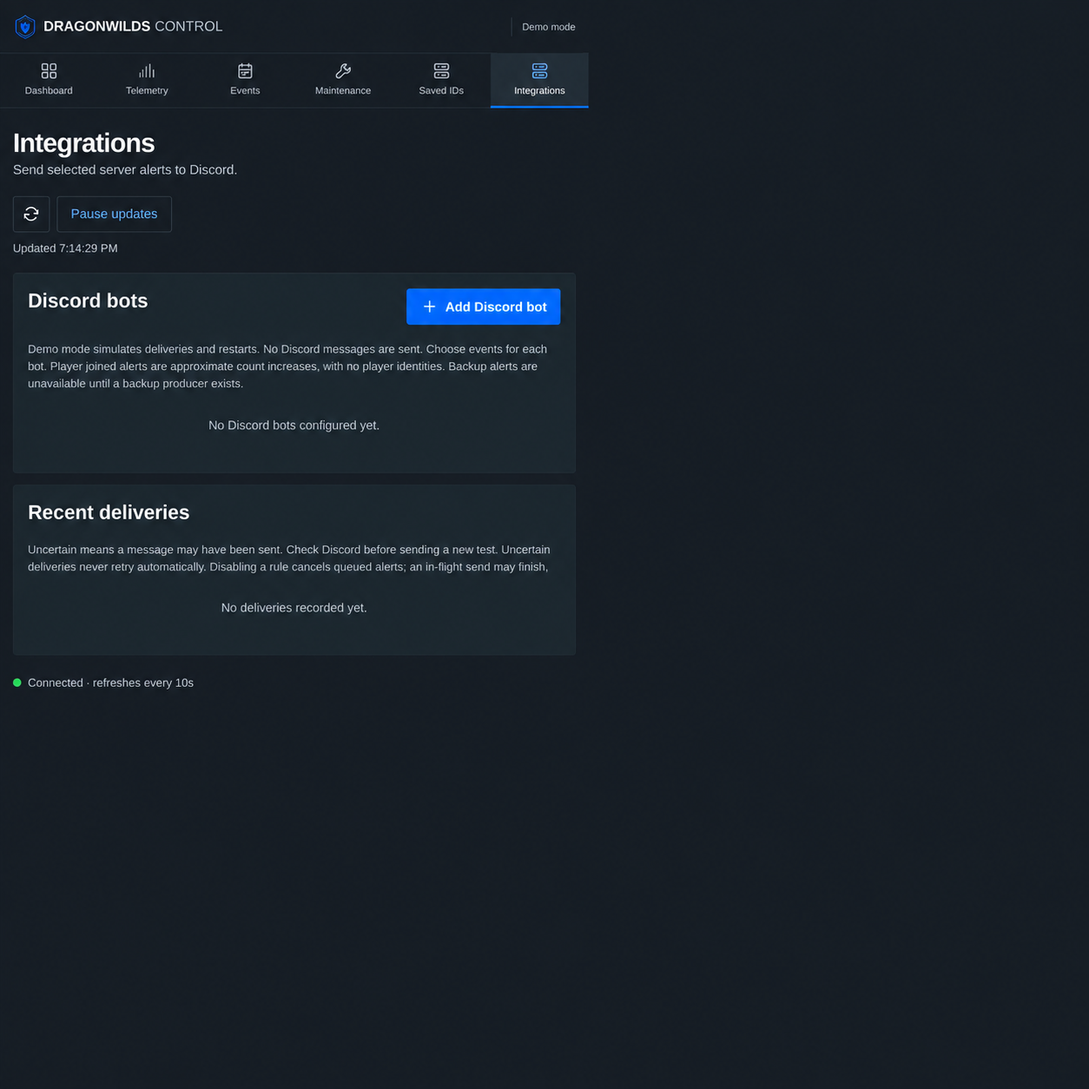
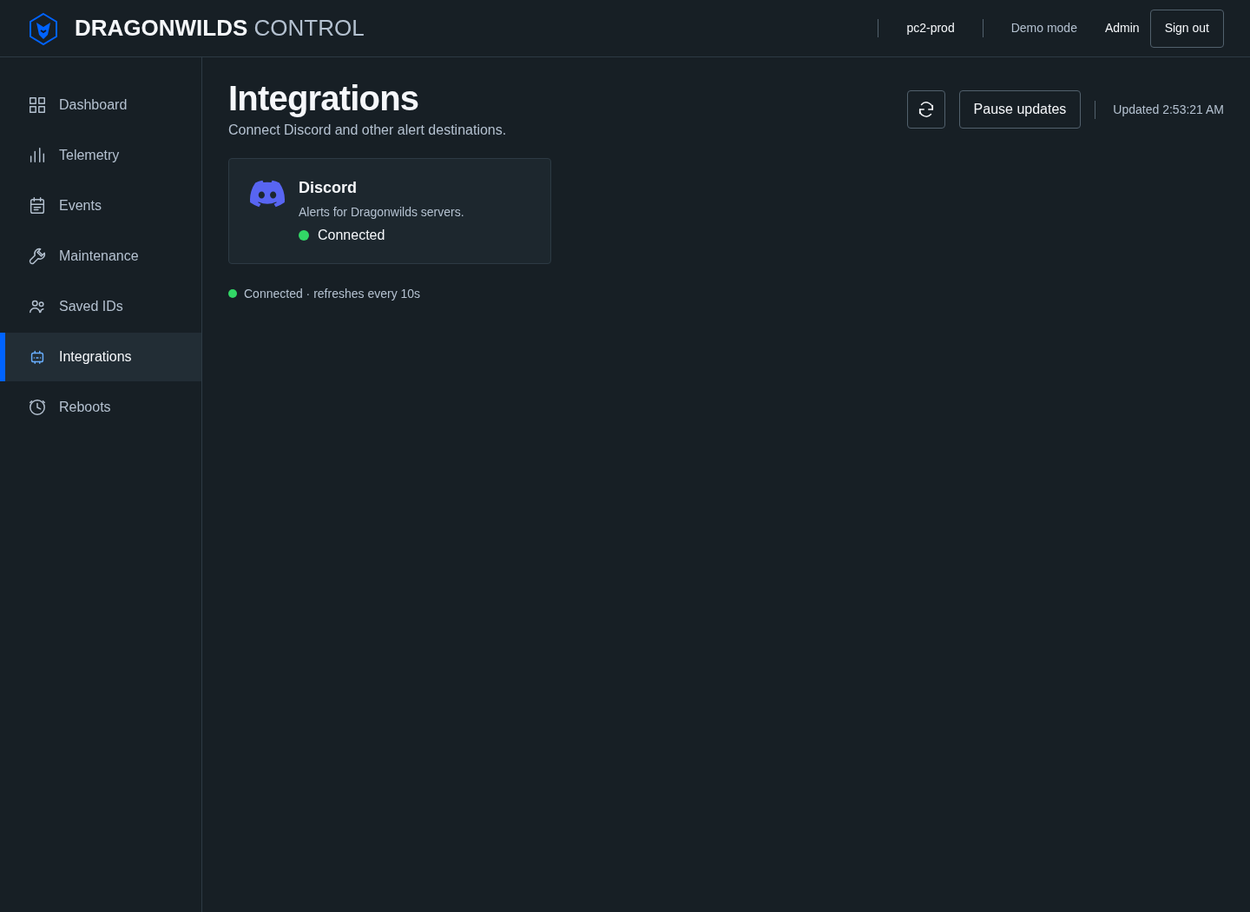
feat(web): split integrations hub from Discord alerts (#35)
* feat(web): add integrations hub and Discord alerts page

Parse #integrations versus #integrations/discord so Integrations stays
the nav item while Discord alerts get a real page, back link, and
connection status derived from bot config and latest deliveries.

* fix(web): keep Discord card text on the console palette

Sort recent messages by time even when the client list is unordered.

* docs(web): capture connected Integrations screenshots

Show the hub with a Connected Discord card and the Discord page with recent messages for PC2-US-EAST-01 and PC2-US-EAST-02.

* fix(web): ignore cancelled Discord deliveries in connection status

Keep Connected when the latest failed record is a configuration cancel, not a send failure.

diff --git a/web/app.js b/web/app.js
@@ -22,6 +22,7 @@ const icons = {
   warning: '<path d="m12 3 10 18H2Z M12 9v5m0 3v.01"/>',
   refresh: '<path d="M20 7v5h-5M4 17v-5h5"/><path d="M6 6a8 8 0 0 1 14 6M4 12a8 8 0 0 0 14 6"/>',
   plus: '<path d="M12 5v14M5 12h14"/>',
+  back: '<path d="m15 6-6 6 6 6"/>',
   arrow: '<path d="M4 12h16m-6-6 6 6-6 6"/>',
   download: '<path d="M12 3v12m-4-4 4 4 4-4M4 16v5h16v-5"/>',
   search: '<circle cx="10" cy="10" r="7"/><path d="m15 15 6 6"/>',
@@ -35,12 +36,17 @@ const pages = {
   events: ['Events', 'Search every server event in one place.'],
   maintenance: ['Maintenance', 'Make safe changes to your servers.'],
   users: ['Saved IDs', 'Manage reusable Dragonwilds player IDs.'],
-  integrations: ['Integrations', 'Send selected server alerts to Discord.'],
+  integrations: ['Integrations', 'Connect Discord and other alert destinations.'],
   reboots: ['Reboots', 'Schedule per-server restarts with predictable timezone rules.'],
+};
+const discordStatusCopy = {
+  not_connected: ['Not connected', 'unknown'],
+  connected: ['Connected', 'enabled'],
+  disconnected: ['Disconnected', 'error'],
 };
 const state = {
   deletions: {},
-  page: 'dashboard', servers: [], events: [], users: [], serverId: '', fleetFilter: 'all',
+  page: 'dashboard', integrationView: 'hub', servers: [], events: [], users: [], serverId: '', fleetFilter: 'all',
   integrations: [], deliveries: [], alertRules: [], pendingRestarts: {}, integrationsDemo: false, modalIntegrationId: '',
   reboots: [], rebootHistory: [], rebootsAvailable: true, rebootsDemo: false, displayTimezone: '', authSubject: '', modalRebootId: '', previewSequence: 0,
   query: '', category: '', range: '60s', telemetry: null, rosterObservation: '', rosterDeadline: 0, logs: '', logQuery: '',
@@ -55,6 +61,48 @@ let modalOpener;
 let refreshSequence = 0;
 let rosterExpiryTimer;
 const can = (capability) => state.capabilities[({users:'create', 'edit-settings':'maintenance', 'add-user':'create', 'edit-user':'create', 'delete-user':'create', 'add-integration':'integrations', 'edit-integration':'integrations', 'test-integration':'integrations', 'add-reboot':'reboots', 'edit-reboot':'reboots', 'delete-reboot':'reboots', 'preview-reboot':'reboots'})[capability] || capability] === true;
+function parseLocationHash(hash) {
+  const raw = String(hash ?? '').replace(/^#/, '').split('?')[0];
+  const slash = raw.indexOf('/');
+  const pageKey = slash === -1 ? raw : raw.slice(0, slash);
+  const view = slash === -1 ? '' : raw.slice(slash + 1);
+  if (pageKey === 'integrations') {
+    return {page:'integrations', integrationView: view === 'discord' ? 'discord' : 'hub'};
+  }
+  return {page: pages[pageKey] ? pageKey : 'dashboard', integrationView:'hub'};
+}
+function pageHeading() {
+  if (state.page === 'integrations' && state.integrationView === 'discord') {
+    return ['Discord', 'Configure Discord alerts for your Dragonwilds servers.'];
+  }
+  return pages[state.page] || pages.dashboard;
+}
+function alertingIntegration(item) {
+  return item?.enabled === true && Array.isArray(item.serverIds) && item.serverIds.length > 0 && item.rules && Object.values(item.rules).some((value) => value === true);
+}
+function deliveryTime(delivery) {
+  const value = Date.parse(delivery?.updatedAt || delivery?.event?.timestamp || '');
+  return Number.isFinite(value) ? value : 0;
+}
+function deliveryWasCancelled(delivery) {
+  const result = String(delivery?.result || '');
+  return result.startsWith('Cancelled by ') || result === 'Integration no longer enables this delivery';
+}
+function latestAttemptedDeliveryFor(integrationId, deliveries) {
+  let latest = null;
+  for (const delivery of deliveries || []) {
+    if (delivery.integrationId !== integrationId || deliveryWasCancelled(delivery)) continue;
+    if (!latest || deliveryTime(delivery) > deliveryTime(latest)) latest = delivery;
+  }
+  return latest;
+}
+function discordConnectionStatus(integrations, deliveries) {
+  const list = integrations || [];
+  if (!list.length) return 'not_connected';
+  const alerting = list.filter(alertingIntegration);
+  if (!alerting.length) return 'disconnected';
+  return alerting.every((item) => latestAttemptedDeliveryFor(item.id, deliveries)?.status === 'failed') ? 'disconnected' : 'connected';
+}
 const staleRequest = () => new DOMException('Session changed', 'AbortError');
 const monotonicNow = () => typeof performance !== 'undefined' && typeof performance.now === 'function' ? performance.now() : Date.now();
 const rosterObservationKey = (telemetry) => telemetry?.server?.id && telemetry?.metrics?.players?.observedAt ? `${telemetry.server.id}\n${telemetry.metrics.players.observedAt}` : '';
@@ -508,46 +556,74 @@ function deliveryStatus(value = 'unknown') {
   const label = normalized.charAt(0).toUpperCase() + normalized.slice(1);
   return `<span class="status ${tones[normalized] || 'unknown'}">${escapeHTML(label)}</span>`;
 }
+function deliveryServerLabel(delivery) {
+  const event = delivery?.event || {};
+  const server = state.servers.find((item) => item.id === event.serverId);
+  if (server) return serverLabel(server);
+  if (event.serverName) return event.serverName;
+  return String(event.kind || '') === 'integration_test' ? 'Bot-level test' : 'Unknown server';
+}
 function discordDeliveryCard(delivery) {
   const event = delivery.event || {};
   const embed = delivery.embed || {};
-  const color = Number.isInteger(embed.color) && embed.color >= 0 && embed.color <= 0xffffff ? embed.color : 0x0063ff;
-  const rail = `#${color.toString(16).padStart(6, '0')}`;
   const kind = String(event.kind || '');
-  const server = event.serverName || (kind === 'integration_test' ? 'Bot-level test' : event.serverId || 'Unknown server');
+  const server = deliveryServerLabel(delivery);
   const bot = state.integrations.find((item) => item.id === delivery.integrationId)?.name || delivery.integrationId || 'Unknown bot';
   const title = embed.title || event.message || 'Discord alert';
   const description = embed.description || event.message || 'No message copy available.';
-  const footer = embed.footer?.text || 'Dragonwilds C2';
   const timestamp = embed.timestamp || event.timestamp || delivery.updatedAt;
   const attempts = Number.isFinite(Number(delivery.attempts)) ? `${delivery.attempts} attempt${Number(delivery.attempts) === 1 ? '' : 's'}` : 'Attempts unavailable';
   const retry = delivery.status === 'retry' && delivery.nextAttempt ? `<span>Next attempt ${escapeHTML(date(delivery.nextAttempt))}</span>` : '';
   return `<article class="delivery-card" data-testid="discord-recent-delivery" data-kind="${escapeHTML(kind)}">
-    <div class="delivery-card-header"><div class="delivery-card-identity"><span class="delivery-card-avatar" aria-hidden="true">C2</span><strong>Dragonwilds C2</strong><span class="delivery-card-bot">BOT</span></div>${deliveryStatus(delivery.status)}</div>
-    <div class="delivery-card-embed" style="--embed-color:${rail}"><div class="delivery-card-title"><h3>${escapeHTML(title)}</h3>${timestamp ? `<time datetime="${escapeHTML(timestamp)}">${escapeHTML(date(timestamp))}</time>` : ''}</div><p>${escapeHTML(description)}</p>
-      <dl class="delivery-card-details"><div><dt>Server</dt><dd>${escapeHTML(server)}</dd></div><div><dt>Bot</dt><dd>${escapeHTML(bot)}</dd></div></dl>
-      <footer><span>${escapeHTML(footer)}</span>${timestamp ? `<time datetime="${escapeHTML(timestamp)}">${escapeHTML(date(timestamp, true))}</time>` : ''}</footer>
-    </div><div class="delivery-card-meta"><span>${escapeHTML(attempts)}</span><span>${escapeHTML(delivery.result || 'No result recorded.')}</span>${retry}</div>
+    <div class="delivery-card-header"><div class="delivery-card-server"><h3>${escapeHTML(server)}</h3>${timestamp ? `<time datetime="${escapeHTML(timestamp)}">${escapeHTML(date(timestamp))}</time>` : ''}</div>${deliveryStatus(delivery.status)}</div>
+    <div class="delivery-card-body"><p class="delivery-card-title">${escapeHTML(title)}</p><p>${escapeHTML(description)}</p></div>
+    <div class="delivery-card-meta">${delivery.id ? `<span class="mono">${escapeHTML(delivery.id)}</span>` : ''}<span>Bot ${escapeHTML(bot)}</span><span>${escapeHTML(attempts)}</span><span>${escapeHTML(delivery.result || 'No result recorded.')}</span>${retry}</div>
   </article>`;
+}
+function discordMark() {
+  return '<svg class="discord-mark" viewBox="0 0 127.14 96.36" aria-hidden="true"><path fill="#5865F2" d="M107.7,8.07A105.15,105.15,0,0,0,81.47,0a72.06,72.06,0,0,0-3.36,6.83A97.68,97.68,0,0,0,49,6.83,72.06,72.06,0,0,0,45.64,0,105.69,105.69,0,0,0,19.39,8.09C2.79,32.65-1.71,56.6.54,80.21h0A105.73,105.73,0,0,0,32.71,96.36,77.7,77.7,0,0,0,39.6,85.25a68.42,68.42,0,0,1-10.85-5.18c.91-.66,1.8-1.34,2.66-2a75.57,75.57,0,0,0,64.32,0c.87.71,1.76,1.39,2.66,2a68.68,68.68,0,0,1-10.87,5.19,77,77,0,0,0,6.89,11.1A105.25,105.25,0,0,0,126.6,80.22h0C129.24,52.84,122.09,29.11,107.7,8.07ZM42.45,65.69C36.18,65.69,31,60,31,53s5-12.74,11.43-12.74S54,46,53.89,53,48.84,65.69,42.45,65.69Zm42.24,0C78.41,65.69,73.25,60,73.25,53s5-12.74,11.44-12.74S96.23,46,96.12,53,91.08,65.69,84.69,65.69Z"/></svg>';
+}
+function discordStatus(value) {
+  const [label, tone] = discordStatusCopy[value] || discordStatusCopy.not_connected;
+  return `<span class="status ${tone}">${label}</span>`;
+}
+function integrationsHub() {
+  const connection = discordConnectionStatus(state.integrations, state.deliveries);
+  const [label] = discordStatusCopy[connection];
+  return `<div class="provider-grid"><a class="provider-card" href="#integrations/discord" data-testid="discord-integration-card" aria-label="Discord, ${label}">${discordMark()}<span class="provider-card-copy"><strong>Discord</strong><span class="provider-card-summary">Alerts for Dragonwilds servers.</span>${discordStatus(connection)}</span></a></div>`;
+}
+function discordBotCard(item) {
+  const servers = item.serverIds.map((id) => escapeHTML(serverLabel(state.servers.find((server) => server.id === id) || {id}))).join(', ') || 'No servers';
+  const rules = state.alertRules.filter((rule) => item.rules[rule.kind]).map((rule) => escapeHTML(rule.label)).join(', ') || 'No rules enabled';
+  return `<article class="bot-card"><div class="bot-card-heading"><h3>${escapeHTML(item.name)}</h3>${status(item.enabled ? 'enabled' : 'disabled')}</div>
+    <dl class="detail-list"><div><dt>Guild</dt><dd class="mono">${escapeHTML(item.guildId)}</dd></div><div><dt>Channel</dt><dd class="mono">${escapeHTML(item.channelId)}</dd></div><div><dt>Secret</dt><dd>${escapeHTML(item.secretRef.name)} / ${escapeHTML(item.secretRef.key)}</dd></div><div><dt>Servers</dt><dd>${servers}</dd></div><div><dt>Rules</dt><dd>${rules}</dd></div></dl>
+    <div class="bot-card-actions"><button data-action="edit-integration" data-id="${escapeHTML(item.id)}" data-testid="edit-integration">Configure</button><button data-action="test-integration" data-id="${escapeHTML(item.id)}" data-testid="test-integration">Send test</button></div></article>`;
+}
+function discordAlertsPage() {
+  const pending = Object.entries(state.pendingRestarts).map(([id,op]) => `<p class="inline-note">Restart ${escapeHTML(op.id)} for ${escapeHTML(serverLabel(state.servers.find((server) => server.id === id) || {id}))} awaits a fresh observation. Requested ${escapeHTML(date(op.requestedAt))}.${op.commandUncertain ? ' Command outcome is unknown.' : ''}</p>`).join('');
+  const demo = state.integrationsDemo ? 'Demo mode simulates deliveries and restarts. No Discord messages are sent. ' : '';
+  const bots = state.integrations.length
+    ? `<div class="bot-card-list">${state.integrations.map(discordBotCard).join('')}</div>`
+    : `<div class="empty"><div class="empty-icon">${icon('integrations')}</div><h3>No Discord bots configured yet</h3><p>Add a bot to route selected server alerts to Discord.</p></div>`;
+  return `<a class="back-link" href="#integrations" data-testid="integrations-back">${icon('back')}Back</a>
+    <section class="panel"><div class="panel-heading"><div><h2>Discord bots</h2><p>Send selected server alerts to a Discord channel.</p></div><button class="primary" data-action="add-integration" data-testid="add-integration">${icon('plus')}Add Discord bot</button></div>
+    ${pending}<p class="inline-note">${demo}Choose events for each bot. Player joined alerts are approximate count increases, with no player identities. Backup alerts are unavailable until a backup producer exists.</p>${bots}</section>
+    <section class="panel section-gap"><div class="panel-heading"><div><h2>Recent messages</h2><p>Newest first. Each message names the Dragonwilds server it belongs to.</p></div></div>
+    <p class="inline-note">Uncertain means a message may have been sent. Check Discord before sending a new test. Uncertain deliveries never retry automatically. Disabling a rule cancels queued alerts; an in-flight send may finish.</p>
+    ${state.deliveries.length ? `<div class="recent-delivery-list">${[...state.deliveries].sort((a, b) => deliveryTime(b) - deliveryTime(a)).map(discordDeliveryCard).join('')}</div>` : '<p class="no-results">No deliveries recorded yet.</p>'}</section>`;
 }
 function integrationsPage() {
   if (!can('integrations')) return dashboard();
-  return `<section class="panel"><div class="panel-heading"><h2>Discord bots</h2><button class="primary" data-action="add-integration" data-testid="add-integration">${icon('plus')}Add Discord bot</button></div>
-    ${Object.entries(state.pendingRestarts).map(([id,op]) => `<p class="inline-note">Restart ${escapeHTML(op.id)} for ${escapeHTML(serverLabel(state.servers.find((server) => server.id === id) || {id}))} awaits a fresh observation. Requested ${escapeHTML(date(op.requestedAt))}.${op.commandUncertain ? ' Command outcome is unknown.' : ''}</p>`).join('')}
-    <p class="inline-note">${state.integrationsDemo ? 'Demo mode simulates deliveries and restarts. No Discord messages are sent. ' : ''}Choose events for each bot. Player joined alerts are approximate count increases, with no player identities. Backup alerts are unavailable until a backup producer exists.</p>
-    ${state.integrations.length ? `<div class="table-wrap"><table><thead><tr><th>Bot</th><th>Target</th><th>Servers</th><th>Rules</th><th>Actions</th></tr></thead><tbody>${state.integrations.map((item) => `<tr><td>${escapeHTML(item.name)}<br>${status(item.enabled ? 'enabled' : 'disabled')}<br><small>Secret ${escapeHTML(item.secretRef.name)} / ${escapeHTML(item.secretRef.key)}</small></td><td>Guild ${escapeHTML(item.guildId)}<br>Channel ${escapeHTML(item.channelId)}</td><td>${item.serverIds.map((id) => escapeHTML(serverLabel(state.servers.find((server) => server.id === id) || {id}))).join('<br>') || 'No servers'}</td><td>${state.alertRules.filter((rule) => item.rules[rule.kind]).map((rule) => escapeHTML(rule.label)).join('<br>') || 'No rules enabled'}</td><td class="actions"><button data-action="edit-integration" data-id="${escapeHTML(item.id)}" data-testid="edit-integration">Configure</button><button data-action="test-integration" data-id="${escapeHTML(item.id)}" data-testid="test-integration">Send test</button></td></tr>`).join('')}</tbody></table></div>` : `<div class="empty"><div class="empty-icon">${icon('integrations')}</div><h3>No Discord bots configured yet</h3><p>Add a bot to route selected server alerts to Discord.</p></div>`}</section>
-    <section class="panel section-gap"><div class="panel-heading"><div><h2>Recent deliveries</h2><p>What was sent, where it went, and whether Discord accepted it.</p></div></div><p class="inline-note">Uncertain means a message may have been sent. Check Discord before sending a new test. Uncertain deliveries never retry automatically. Disabling a rule cancels queued alerts; an in-flight send may finish.</p>${state.deliveries.length ? `<div class="recent-delivery-list">${state.deliveries.map(discordDeliveryCard).join('')}</div>` : '<p class="no-results">No deliveries recorded yet.</p>'}</section>`;
+  return state.integrationView === 'discord' ? discordAlertsPage() : integrationsHub();
 }
 function integrationForm(item) {
-  return `<p>Reference a pre-created Kubernetes Secret in the C2 namespace. Never enter a bot token here. Change the Secret name or key to rotate the reference. Sending a test also works while disabled.</p><div class="form-grid">
-    <label class="field">Display name<input name="name" data-testid="integration-name" required maxlength="80" value="${escapeHTML(item?.name || '')}"></label>
-    <label class="field">Alerts<select name="enabled" data-testid="integration-enabled"><option value="true" ${item?.enabled !== false ? 'selected' : ''}>Enabled</option><option value="false" ${item?.enabled === false ? 'selected' : ''}>Disabled</option></select></label>
-    <label class="field">Guild ID<input name="guildId" data-testid="integration-guild" required pattern="${PATTERN.snowflake}" value="${escapeHTML(item?.guildId || '')}"></label>
-    <label class="field">Channel ID<input name="channelId" data-testid="integration-channel" required pattern="${PATTERN.snowflake}" value="${escapeHTML(item?.channelId || '')}"></label>
-    <label class="field">Secret name<input name="secretName" data-testid="integration-secret-name" required maxlength="253" value="${escapeHTML(item?.secretRef.name || '')}" autocomplete="off"></label>
-    <label class="field">Secret key<input name="secretKey" data-testid="integration-secret-key" required maxlength="253" value="${escapeHTML(item?.secretRef.key || 'token')}" autocomplete="off"></label></div>
-    <fieldset class="form-section"><legend>Connected servers</legend>${state.servers.map((server) => `<label class="field"><span><input type="checkbox" name="integrationServer" value="${escapeHTML(server.id)}" ${item?.serverIds.includes(server.id) ? 'checked' : ''}> ${escapeHTML(serverLabel(server))}</span></label>`).join('') || '<p>No servers available.</p>'}</fieldset>
-    <fieldset class="form-section"><legend>Alert rules</legend>${state.alertRules.map((rule) => `<label class="field"><span><input type="checkbox" name="integrationRule" value="${escapeHTML(rule.kind)}" ${rule.available ? '' : 'disabled'} ${item?.rules[rule.kind] && rule.available ? 'checked' : ''}> ${escapeHTML(rule.label)}</span><small>${escapeHTML(rule.source)}</small></label>`).join('')}</fieldset>`;
+  const servers = state.servers.map((server) => `<label class="choice-row"><input type="checkbox" name="integrationServer" value="${escapeHTML(server.id)}" ${item?.serverIds?.includes(server.id) ? 'checked' : ''}><span class="choice-copy"><strong>${escapeHTML(serverLabel(server))}</strong></span></label>`).join('') || '<p>No servers available.</p>';
+  const rules = state.alertRules.map((rule) => `<label class="choice-row"><input type="checkbox" name="integrationRule" value="${escapeHTML(rule.kind)}" ${rule.available ? '' : 'disabled'} ${item?.rules?.[rule.kind] && rule.available ? 'checked' : ''}><span class="choice-copy"><strong>${escapeHTML(rule.label)}</strong><small>${escapeHTML(rule.source)}</small></span></label>`).join('');
+  return `<fieldset class="form-section"><legend>Bot</legend><div class="form-grid"><label class="field">Display name<input name="name" data-testid="integration-name" required maxlength="80" value="${escapeHTML(item?.name || '')}"></label><label class="field">Alerts<select name="enabled" data-testid="integration-enabled"><option value="true" ${item?.enabled !== false ? 'selected' : ''}>Enabled</option><option value="false" ${item?.enabled === false ? 'selected' : ''}>Disabled</option></select></label></div></fieldset>
+    <fieldset class="form-section"><legend>Discord destination</legend><div class="form-grid"><label class="field">Guild ID<input name="guildId" data-testid="integration-guild" required pattern="${PATTERN.snowflake}" value="${escapeHTML(item?.guildId || '')}"></label><label class="field">Channel ID<input name="channelId" data-testid="integration-channel" required pattern="${PATTERN.snowflake}" value="${escapeHTML(item?.channelId || '')}"></label></div></fieldset>
+    <fieldset class="form-section"><legend>Kubernetes Secret</legend><p>Reference a pre-created Kubernetes Secret in the C2 namespace. Never enter a bot token here. Change the Secret name or key to rotate the reference. Sending a test also works while disabled.</p><div class="form-grid"><label class="field">Secret name<input name="secretName" data-testid="integration-secret-name" required maxlength="253" value="${escapeHTML(item?.secretRef?.name || '')}" autocomplete="off"></label><label class="field">Secret key<input name="secretKey" data-testid="integration-secret-key" required maxlength="253" value="${escapeHTML(item?.secretRef?.key || 'token')}" autocomplete="off"></label></div></fieldset>
+    <fieldset class="form-section"><legend>Dragonwilds servers</legend>${servers}</fieldset>
+    <fieldset class="form-section"><legend>Alert rules</legend>${rules}</fieldset>`;
 }
 function rebootResultLabel(result) {
   return ({awaiting_reconciliation:'Awaiting reconciliation', completed:'Completed', failed:'Failed', skipped:'Skipped', missed:'Missed during downtime', uncertain:'Uncertain'})[result] || 'No execution yet';
@@ -676,7 +752,7 @@ function render() {
   const focused = document.activeElement;
   const testId = focused?.getAttribute('data-testid');
   const selection = focused instanceof HTMLInputElement ? [focused.selectionStart, focused.selectionEnd] : null;
-  const [title,description] = pages[state.page];
+  const [title,description] = pageHeading();
   document.title = `${title} · RSDW C2`;
   $('#page-title').textContent = title;
   $('#page-description').textContent = description;
@@ -1129,11 +1205,13 @@ async function handleAction(event) {
 }
 function navigate() {
   window.scrollTo(0, 0);
-  const page = location.hash.slice(1).split('?')[0];
-  state.page = pages[page] && (!state.identity || can(page)) ? page : 'dashboard';
+  const parsed = parseLocationHash(location.hash);
+  state.page = pages[parsed.page] && (!state.identity || can(parsed.page)) ? parsed.page : 'dashboard';
+  state.integrationView = state.page === 'integrations' ? parsed.integrationView : 'hub';
+  const [title, description] = pageHeading();
   $('#navigation').innerHTML = navHTML();
-  $('#page-title').textContent = pages[state.page][0];
-  $('#page-description').textContent = pages[state.page][1];
+  $('#page-title').textContent = title;
+  $('#page-description').textContent = description;
   clearTelemetry();
   state.logs = '';
   if (state.loaded) render();

diff --git a/web/styles.css b/web/styles.css
@@ -97,21 +97,30 @@ main { padding: 24px 30px 30px; min-width: 0; width: 100%; }
 #content > .panel + .panel,.section-gap { margin-top: 16px; }
 .panel-heading { display: flex; justify-content: space-between; align-items: center; gap: 16px; margin-bottom: 20px; }
 .panel-heading p { font-size: 14px; margin-top: 4px; }
-.recent-delivery-list { display: grid; grid-template-columns: repeat(auto-fit,minmax(min(100%,420px),1fr)); gap: 16px; }
-.delivery-card { min-width: 0; background: var(--color-muted); border: 1px solid var(--color-border); border-radius: 6px; overflow: hidden; }
-.delivery-card-header { display: flex; align-items: center; justify-content: space-between; gap: 12px; padding: 14px 16px; }
-.delivery-card-identity { display: flex; align-items: center; gap: 8px; min-width: 0; font-size: 14px; }
-.delivery-card-avatar { display: grid; place-items: center; flex-shrink: 0; width: 32px; height: 32px; border-radius: 50%; background: var(--color-primary); color: var(--color-on-primary); font-size: 12px; }
-.delivery-card-bot { padding: 1px 5px; border-radius: 3px; background: var(--color-primary); color: var(--color-on-primary); font-size: 10px; }
-.delivery-card-embed { margin: 0 16px; padding: 16px; background: var(--color-background); border-left: 4px solid var(--embed-color); border-radius: 4px; overflow-wrap: anywhere; }
-.delivery-card-title { display: flex; align-items: baseline; justify-content: space-between; gap: 12px; }
-.delivery-card-title h3 { font-size: 16px; margin-bottom: 8px; }
-.delivery-card-title time { flex-shrink: 0; color: var(--color-muted-foreground); font-size: 12px; }
-.delivery-card-embed p { color: var(--color-foreground); font-size: 14px; }
-.delivery-card-details { display: grid; grid-template-columns: repeat(2,minmax(0,1fr)); gap: 12px; margin: 16px 0 0; font-size: 14px; }
-.delivery-card-details dt { color: var(--color-muted-foreground); font-size: 12px; text-transform: uppercase; letter-spacing: .04em; }
-.delivery-card-details dd { margin: 2px 0 0; overflow-wrap: anywhere; }
-.delivery-card-embed footer { display: flex; flex-wrap: wrap; gap: 4px 12px; margin-top: 16px; color: var(--color-muted-foreground); font-size: 12px; }
+.provider-grid { display: grid; grid-template-columns: repeat(auto-fill, minmax(min(100%, 280px), 1fr)); gap: 16px; }
+.provider-card { display: flex; align-items: flex-start; gap: 16px; min-width: 0; min-height: var(--control-min-size); max-width: 420px; padding: 20px 24px; background: var(--color-card); border: 1px solid var(--color-divider); border-radius: 4px; color: var(--color-foreground); cursor: pointer; }
+.provider-card:hover, .provider-card:focus-visible { color: var(--color-foreground); }
+.provider-card:hover { background: var(--color-muted); border-color: var(--color-border); }
+.discord-mark { width: 40px; height: 40px; flex-shrink: 0; }
+.provider-card-copy { display: grid; gap: 4px; min-width: 0; }
+.provider-card-copy strong { font-size: 18px; overflow-wrap: anywhere; }
+.provider-card-summary { color: var(--color-muted-foreground); font-size: 14px; }
+.back-link { display: inline-flex; align-items: center; gap: 8px; min-height: var(--control-min-size); margin-bottom: 8px; padding: 0 4px; width: fit-content; color: var(--link); cursor: pointer; }
+.back-link:hover { color: var(--color-foreground); }
+.bot-card-list { display: grid; gap: 16px; }
+.bot-card { min-width: 0; padding: 20px 24px; background: var(--color-muted); border: 1px solid var(--color-divider); border-radius: 4px; }
+.bot-card-heading { display: flex; align-items: center; justify-content: space-between; gap: 12px; margin-bottom: 12px; }
+.bot-card-heading h3 { overflow-wrap: anywhere; }
+.bot-card-actions { display: flex; flex-wrap: wrap; gap: 10px; margin-top: 16px; }
+.recent-delivery-list { display: grid; grid-template-columns: minmax(0,1fr); gap: 16px; max-width: 720px; }
+.delivery-card { min-width: 0; background: var(--color-muted); border: 1px solid var(--color-border); border-radius: 4px; overflow: hidden; }
+.delivery-card-header { display: flex; align-items: flex-start; justify-content: space-between; gap: 12px; padding: 16px 16px 0; }
+.delivery-card-server { min-width: 0; }
+.delivery-card-server h3 { font-size: 18px; overflow-wrap: anywhere; }
+.delivery-card-server time { display: block; color: var(--color-muted-foreground); font-size: 13px; margin-top: 4px; }
+.delivery-card-body { padding: 12px 16px 0; }
+.delivery-card-title { color: var(--color-foreground); font-weight: 600; margin-bottom: 6px; }
+.delivery-card-body p { overflow-wrap: anywhere; }
 .delivery-card-meta { display: flex; flex-wrap: wrap; gap: 8px 16px; padding: 14px 16px 16px; color: var(--color-muted-foreground); font-size: 13px; }
 .delivery-card-meta span { overflow-wrap: anywhere; }
 .stats { display: grid; grid-template-columns: repeat(4,minmax(0,1fr)); gap: 16px; margin-bottom: 16px; }
@@ -266,6 +275,15 @@ dialog.create-server-dialog { width: min(800px,calc(100% - 32px)); }
 fieldset.form-section { border: 1px solid var(--color-divider); border-radius: 4px; margin: 0 0 16px; padding: 12px 16px 16px; min-width: 0; }
 fieldset.form-section > legend { padding: 0 6px; color: var(--color-muted-foreground); font-size: 13px; font-weight: 600; letter-spacing: 0.04em; text-transform: uppercase; }
 fieldset.form-section .form-grid { margin-top: 8px; }
+fieldset.form-section > p { font-size: 14px; margin: 0 0 12px; }
+.choice-row { display: flex; align-items: center; gap: 12px; min-height: var(--control-min-size); margin: 0 0 8px; padding: 8px 12px; border: 1px solid var(--color-divider); border-radius: 4px; background: var(--color-background); cursor: pointer; }
+.choice-row:last-child { margin-bottom: 0; }
+.choice-row:hover { border-color: var(--color-border); }
+.choice-row:has(input:disabled) { opacity: .55; cursor: not-allowed; }
+.choice-row input { width: 18px; height: 18px; margin: 0; flex-shrink: 0; }
+.choice-copy { display: flex; flex-direction: column; gap: 2px; min-width: 0; }
+.choice-copy strong { font-weight: 600; overflow-wrap: anywhere; }
+.choice-copy small { color: var(--color-muted-foreground); font-size: 13px; overflow-wrap: anywhere; }
 ::placeholder { color: var(--color-muted-foreground); opacity: 1; }
 input[type=file]::file-selector-button { font: inherit; border: 1px solid var(--color-border); border-radius: 4px; background: var(--color-background); color: var(--color-foreground); min-height: var(--control-min-size); padding: 9px 16px; margin-inline-end: 12px; cursor: pointer; }
 #modal-body > p { font-size: 15px; line-height: 1.7; margin-bottom: 20px; }
@@ -337,6 +355,7 @@ input[type=file]::file-selector-button { font: inherit; border: 1px solid var(--
   .stat { gap: 8px; flex-direction: column; align-items: flex-start; }
   .stat-value { font-size: 24px; overflow-wrap: normal; }
   .detail-list > div { flex-wrap: wrap; gap: 4px 16px; }
+  .delivery-card-header,.bot-card-heading,.provider-card { flex-wrap: wrap; }
 }
 @media (prefers-reduced-motion: reduce) {
   *,*::before,*::after { animation: none!important; transition: none!important; scroll-behavior: auto!important; }

diff --git a/docs/integrations.md b/docs/integrations.md
@@ -2,15 +2,17 @@
 
 The Integrations page is available to admins. OIDC viewers cannot read or change integrations, deliveries, or Secret references. OIDC mutations require the session CSRF token and the configured Origin. Token-mode requests require the admin bearer token. Session changes clear integration lists, delivery history, and open configuration forms.
 
-![Integrations page with Discord bot setup and delivery history panels.](screenshots/integrations.png)
+![Integrations hub with a Discord card marked Connected.](screenshots/integrations.png)
+
+![Discord alerts page with a configured bot and recent messages.](screenshots/integrations-discord.png)
 
 ## Configuration
 
 Create a Discord bot with permission to view the target channel and send messages. Put its token in a pre-created Kubernetes Secret in the C2 namespace. C2 reads that namespace from `RSDW_NAMESPACE`, which the chart supplies through the Downward API. Standalone processes default to `rsdw-system`.
 
-In Integrations, select **Add Discord bot**. Enter a name, the numeric guild and channel IDs, and the Secret name and key. Select the servers and alert rules, then save. The console accepts a Secret reference only. It has no bot-token input, and its API rejects token fields without echoing their values.
+In Integrations, open **Discord**. The card shows Not connected, Connected, or Disconnected. Select **Add Discord bot**. Enter a name, the numeric guild and channel IDs, and the Secret name and key. Select the servers and alert rules, then save. The console accepts a Secret reference only. It has no bot-token input, and its API rejects token fields without echoing their values.
 
-Use **Configure** to change server associations, rules, enabled state, or the Secret reference. Updating the referenced Secret also rotates the token because each attempt reads it again. The bot verifies that the channel belongs to the configured guild before sending. **Send test** queues a test even when automatic alerts are disabled. The delivery table reports its result.
+Use **Configure** to change server associations, rules, enabled state, or the Secret reference. Updating the referenced Secret also rotates the token because each attempt reads it again. The bot verifies that the channel belongs to the configured guild before sending. **Send test** queues a test even when automatic alerts are disabled. Recent messages lists each delivery with the Dragonwilds server it belongs to.
 
 Demo mode uses the same configuration and delivery state but simulates sends and restart completion. It does not read Secrets or contact Discord. Production telemetry is not simulated in demo mode.
 
@@ -18,7 +20,7 @@ Demo mode uses the same configuration and delivery state but simulates sends and
 
 Discord notifications contain one colored embed with a fixed title and a playful description that roasts the server or automation. Server alerts include a Server field, using "Unknown server" when the name is empty. Integration tests omit that field. Every embed has a "Dragonwilds C2" footer and includes the event timestamp in UTC when present. Messages disable all mentions.
 
-The Integrations page does not show a separate message preview gallery. Once a delivery exists, Recent deliveries renders the same embed title, description, server, bot, status, and result that apply to that delivery. Integration tests are labeled as bot-level tests because they are not associated with a server.
+The Discord page does not show a separate message preview gallery. Recent messages is a single-column list, newest first. Each row leads with the current Dragonwilds server name when that server still exists, otherwise the name stored on the event. Integration tests show as Bot-level test because they are not associated with a server. Title, description, bot, status, and result follow.
 
 Visible Discord text excludes raw event messages and details, source and accuracy metadata, operational IDs, endpoints, Secrets, and player identities. Operational IDs remain in C2 delivery records. The delivery ID also remains in the transport nonce. Payload bytes are not persisted.
 
@@ -26,7 +28,7 @@ Visible Discord text excludes raw event messages and details, source and accurac
 
 | Request | Result |
 | --- | --- |
-| `GET /api/integrations` | Configurations, rule definitions, pending restart operations, and the 100 most recently updated deliveries. Each supported delivery includes a rendered `embed` for the Recent deliveries view. |
+| `GET /api/integrations` | Configurations, rule definitions, pending restart operations, and the 100 most recently updated deliveries. Each supported delivery includes a rendered `embed` for the Recent messages list. |
 | `POST /api/integrations` | Create a Discord bot configuration |
 | `PUT /api/integrations/{id}` | Replace a configuration, including its Secret reference |
 | `POST /api/integrations/{id}/test` | Queue a test and return its stable delivery ID with HTTP 202 |
